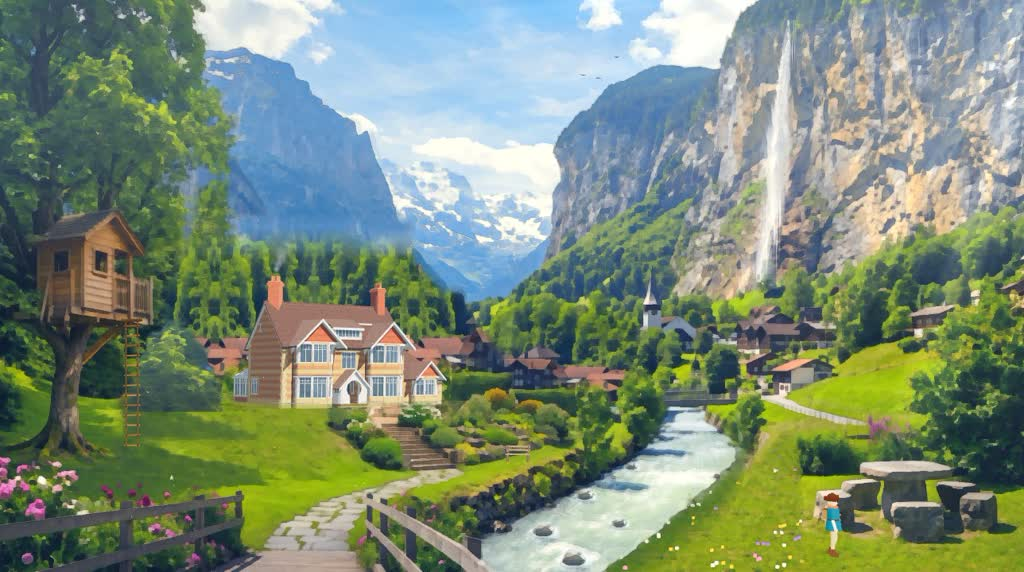
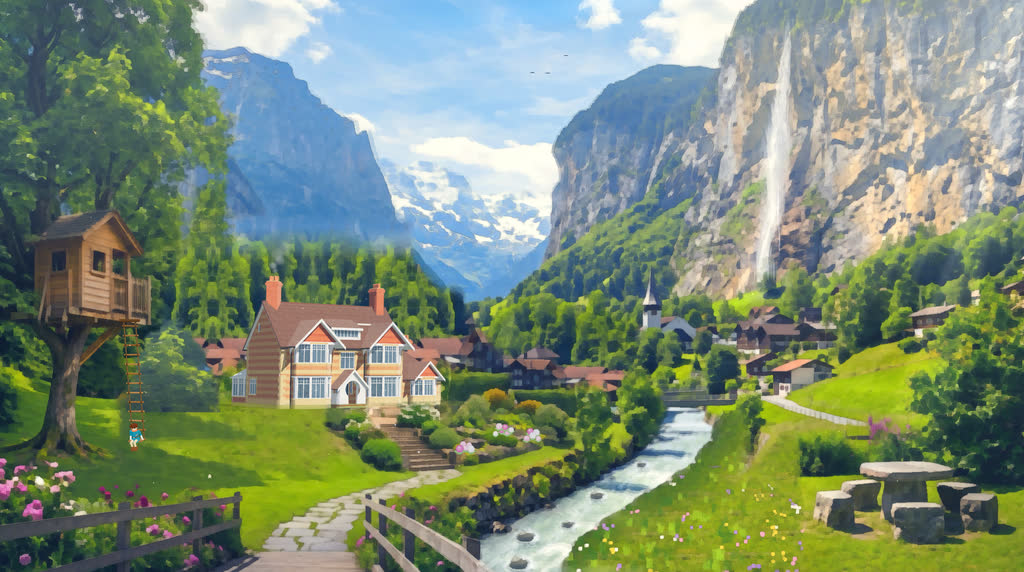
Clun splash: narrower creek, wider right-bank meadow with grass tufts, light patches, more wildflowers and waterline pebbles; refreshed poster

diff --git a/spatial-home/clun/js/plate.js b/spatial-home/clun/js/plate.js
@@ -23,14 +23,14 @@
     ladders: [],   /* 原图树屋的两架木梯：抹掉，换成一条绳梯 */
     rope: [332, 808, 1152],                     /* 绳梯：挂在平台右端前沿（x, 平台底 y），下面地面 y */
     walkOut: [[262, 1096], [330, 1060], [430, 1048], [600, 1035], [790, 1032], [880, 1060], [835, 1130], [870, 1200], [930, 1270], [985, 1340], [1045, 1420], [760, 1428], [520, 1390], [330, 1320], [255, 1210]],   /* 右边沿着小路栏杆的内侧（不站到栏杆外面） */   /* 屋外能走的范围：门前、左边草坪和石板路 */
-    walkBank: [[1885, 1115], [2120, 1150], [2420, 1215], [2576, 1290], [2576, 1432], [1605, 1432], [1636, 1400], [1692, 1350], [1738, 1290], [1808, 1230], [1868, 1170]],   /* 小溪对岸：整片草坡，左边一直到水边 */
+    walkBank: [[1840, 1115], [2120, 1150], [2420, 1215], [2576, 1290], [2576, 1432], [1470, 1432], [1478, 1400], [1508, 1350], [1592, 1290], [1688, 1230], [1782, 1170]],   /* 小溪对岸：整片草坡，左边一直到水边 */
     walkHill: [[0, 935], [58, 950], [90, 975], [92, 1085], [150, 1128], [300, 1128], [300, 1165], [120, 1165], [0, 1150]],   /* 大树左边的山坡（从树根前面绕过去，一路爬到坡顶） */
     walkYard: [[870, 1200], [1000, 1192], [1138, 1192], [1200, 1178], [1330, 1152], [1420, 1140], [1420, 1172], [1330, 1198], [1215, 1222], [1140, 1250], [1010, 1262], [930, 1270]],   /* 石阶脚下的小路和前院花园那条草带 */
     stairs: [[1000, 1192], [1138, 1192], [1100, 1126], [1040, 1066], [948, 1066], [985, 1104], [1000, 1140]],   /* 前院的石阶（底图里画着的） */
     walkPorch: [[856, 1050], [948, 1068], [1040, 1068], [1010, 1032], [880, 1030]],   /* 石阶顶上到房门前 */
     bench: [1300, 1160], hilltop: [40, 956],   /* 前院花园（原来放长椅的地方，长椅已去掉）、山坡顶上坐下看山谷的地方 */
-    hops: [[1010, 1405], [1215, 1428], [1365, 1338], [1555, 1318], [1745, 1315]],   /* 从小路尽头跳过栏杆，经溪里的石头到对岸 */   /* 踩着溪里的石头过溪（两头在两边草地上） */
-    waterSpots: [[1800, 1245, 1700, 1255], [1676, 1398, 1560, 1408]],
+    hops: [[1010, 1405], [1215, 1428], [1322, 1350], [1428, 1318], [1600, 1315]],   /* 从小路尽头跳过栏杆，经溪里的石头到对岸 */   /* 踩着溪里的石头过溪（两头在两边草地上） */
+    waterSpots: [[1672, 1245, 1560, 1255], [1500, 1398, 1385, 1408]],
     yardBeds: [[1172, 1136], [1262, 1092], [1340, 1106]],   /* 前院花园里的三小丛花（底图坐标，都在花园的灌木花坛里，不在路边 / 草带上） */
     gardens: [[430, 1272, 352, 1262], [1004, 1052, 1078, 1040], [1180, 1206, 1186, 1150], [1905, 1345, 1885, 1402]],   /* 能打理的花草：小人站的地方 → 花丛 */
     stool: [2060, 1325, 2108, 1296],   /* 石桌边：走到的地方 → 坐的那只石凳 */   /* 玩水：小人站的地方 → 水面的点 */
@@ -39,12 +39,12 @@
     /* 动画区域（底图像素） */
     fall: [[1973, 52], [1999, 52], [1986, 320], [1967, 540], [1948, 705], [1890, 705], [1922, 540], [1946, 320]],
     fallMist: [1918, 700, 95],
-    river: [[1665, 1022], [1855, 1022], [1862, 1110], [1832, 1170], [1768, 1230], [1698, 1290], [1628, 1350], [1560, 1400], [1505, 1438],
+    river: [[1665, 1022], [1815, 1022], [1775, 1110], [1725, 1170], [1630, 1230], [1535, 1290], [1450, 1350], [1420, 1400], [1408, 1438],
       [1198, 1438], [1218, 1368], [1280, 1318], [1380, 1268], [1488, 1218], [1578, 1168], [1628, 1108]],
     bridge: [1760, 1018],
     /* 小溪收窄：右岸往里推，原来的水面铺成向下的缓草坡（这一圈点 = 新岸线 + 原来右岸外的草地） */
-    bank: [[1855, 1030], [1862, 1110], [1832, 1170], [1768, 1230], [1698, 1290], [1628, 1350], [1560, 1400], [1505, 1438], [1760, 1438], [1800, 1330], [1860, 1230], [1885, 1120], [1880, 1030]],
-    rocks: [[1585, 1175, 15], [1468, 1248, 21], [1555, 1318, 18], [1365, 1338, 27], [1440, 1410, 31]],   /* 溪里的石头：中心 x, y, 半径（像素） */
+    bank: [[1815, 1030], [1775, 1110], [1725, 1170], [1630, 1230], [1535, 1290], [1450, 1350], [1420, 1400], [1408, 1438], [1760, 1438], [1800, 1330], [1860, 1230], [1885, 1120], [1880, 1030]],
+    rocks: [[1612, 1168, 13], [1500, 1246, 18], [1428, 1318, 17], [1322, 1350, 24], [1305, 1418, 27]],   /* 溪里的石头：中心 x, y, 半径（像素） */
     walk: [[760, 1330], [985, 1222]],   /* 小旅人来回走的石板路两端（近景） */
     table: [[1985, 1405], [2095, 1392]], /* 远景里小旅人的位置：石桌左前方的草地 */
     heroScale: 0.72,                     /* 小旅人整体缩小 */
@@ -192,7 +192,7 @@
     bg2.save(); bpath(bg2); bg2.clip();
     for (var by = 1000, brow = 0; by < H; brow++) {
       var bsc = 0.4 + 0.6 * Math.max(0, by - 1000) / 438, bw = 300 * bsc, bh = 70 * bsc;
-      for (var bx = 1480 - (brow % 2) * bw * 0.5, bcol = 0; bx < 1900; bx += bw, bcol++) {
+      for (var bx = 1340 - (brow % 2) * bw * 0.5, bcol = 0; bx < 1900; bx += bw, bcol++) {
         bg2.save(); if ((brow + bcol) % 2) { bg2.translate(bx + bw, by); bg2.scale(-1, 1); bg2.drawImage(img, 2150, 1365, 300, 70, 0, 0, bw, bh); } else bg2.drawImage(img, 2150, 1365, 300, 70, bx, by, bw, bh);
         bg2.restore();
       }
@@ -218,9 +218,21 @@
     g.save(); g.beginPath();
     [bankPoly, PL.fence].forEach(function (poly) { poly.forEach(function (q, i2) { if (i2) g.lineTo(q[0], q[1]); else g.moveTo(q[0], q[1]); }); g.closePath(); });
     g.clip();
+    /* 新铺的草坡：几块向阳的亮斑和背阴的暗斑，再长出一簇簇深浅不一的草，不是一整片平的 */
+    [[1610, 1150, 150, 1], [1570, 1300, 190, 1], [1705, 1405, 170, 0], [1500, 1420, 120, 1], [1765, 1240, 130, 0], [1730, 1085, 90, 1]].forEach(function (b) {
+      var rg = g.createRadialGradient(b[0], b[1], 0, b[0], b[1], b[2]);
+      rg.addColorStop(0, b[3] ? 'rgba(214,236,120,0.26)' : 'rgba(28,70,22,0.22)'); rg.addColorStop(1, 'rgba(0,0,0,0)');
+      g.save(); g.translate(0, b[1]); g.scale(1, 0.45); g.translate(0, -b[1]); g.fillStyle = rg; g.beginPath(); g.arc(b[0], b[1], b[2], 0, 6.283); g.fill(); g.restore();
+    });
+    g.lineCap = 'round';
+    for (var gi = 0; gi < 150; gi++) {
+      var gy2 = 1050 + Math.pow(rnd(), 0.75) * 388, gx2 = 1420 + rnd() * 460, gs = 0.8 + 2.2 * (gy2 - 1050) / 388;
+      g.strokeStyle = rnd() < 0.5 ? 'rgba(46,96,26,0.55)' : 'rgba(150,196,70,0.6)'; g.lineWidth = 0.9 * gs;
+      for (var gb = 0; gb < 5; gb++) { var lean = (gb - 2) * 1.8 * gs + (rnd() - 0.5) * 2 * gs; g.beginPath(); g.moveTo(gx2 + (gb - 2) * 1.2 * gs, gy2); g.quadraticCurveTo(gx2 + lean * 0.5, gy2 - 5 * gs, gx2 + lean, gy2 - (6 + rnd() * 5) * gs); g.stroke(); }
+    }
     var FL = ['#fbfaf2', '#f6d84a', '#f2a6c2', '#b78ad8', '#fbfaf2', '#f6d84a'];
-    for (var fi = 0; fi < 60; fi++) {
-      var fy = 1060 + Math.pow(rnd(), 0.8) * 378, fx = 1560 + rnd() * 480, fs = 1.1 + 2.6 * (fy - 1060) / 378, fc2 = FL[Math.floor(rnd() * FL.length)], fn = 1 + Math.floor(rnd() * 3);
+    for (var fi = 0; fi < 90; fi++) {
+      var fy = 1060 + Math.pow(rnd(), 0.8) * 378, fx = 1430 + rnd() * 610, fs = 1.1 + 2.6 * (fy - 1060) / 378, fc2 = FL[Math.floor(rnd() * FL.length)], fn = 1 + Math.floor(rnd() * 3);
       for (var fk = 0; fk < fn; fk++) {
         var ax = fx + (rnd() - 0.5) * 14 * fs, ay = fy + (rnd() - 0.5) * 6 * fs;
         g.strokeStyle = 'rgba(70,110,30,0.8)'; g.lineWidth = 0.8 * fs; g.beginPath(); g.moveTo(ax, ay); g.lineTo(ax + (rnd() - 0.5) * 2, ay + 5 * fs); g.stroke();
@@ -229,6 +241,13 @@
       }
     }
     g.restore();
+    /* 水边的卵石：沿新岸线零零星星几颗，一半在草里一半在水里 */
+    for (var pi = 3; pi < edge.length - 1; pi += 5 + Math.floor(rnd() * 6)) {
+      var pe = edge[pi], ps = 0.55 + 0.9 * (pe[1] - 1030) / 408, pr = (4 + rnd() * 5) * ps, pbx = pe[0] - 3 + rnd() * 8 * ps, pby = pe[1] + 1;
+      g.fillStyle = 'rgba(20,40,30,0.35)'; g.beginPath(); g.ellipse(pbx + pr * 0.2, pby + pr * 0.45, pr * 1.1, pr * 0.4, 0, 0, 6.283); g.fill();
+      g.fillStyle = ['#9a9a90', '#b4b0a2', '#84887f'][pi % 3]; g.beginPath(); g.ellipse(pbx, pby, pr, pr * 0.68, 0, 0, 6.283); g.fill();
+      g.fillStyle = 'rgba(255,255,255,0.35)'; g.beginPath(); g.ellipse(pbx - pr * 0.25, pby - pr * 0.25, pr * 0.45, pr * 0.25, 0, 0, 6.283); g.fill();
+    }
     /* 溪里的石头：先画水撞上来的白浪（在石头后面），再画露出水面的圆顶石头，最后是前面一圈白沫 */
     PL.rocks.forEach(function (r, ri) {
       var x = r[0], y = r[1], R = r[2];
@@ -684,7 +703,7 @@
     document.head.appendChild(css);
     var doorEl = ui.querySelector('.ce-door'), skipEl = ui.querySelector('.ce-skip'), goEl = ui.querySelector('.ce-go'), exEl = ui.querySelector('.ce-explore'), outEl = ui.querySelector('.ce-out'), stickEl = ui.querySelector('.ce-stick'), viewEl = ui.querySelector('.ce-view'), actsEl = ui.querySelector('.ce-acts'), sitEl = ui.querySelector('.ce-sit'), readEl = ui.querySelector('.ce-read'), waveEl = ui.querySelector('.ce-wave'), door2El = ui.querySelector('.ce-door2'), menuEl = ui.querySelector('.ce-menu'), featsEl = ui.querySelector('.ce-feats'), barEl = ui.querySelector('.ce-bar'), ctxEl = ui.querySelector('.ce-ctx'), knobEl = ui.querySelector('.ce-knob'), helpEl = ui.querySelector('.ce-help');
     var scopeEl = ui.querySelector('.ce-scope'), scopeTag = ui.querySelector('.ce-scope-tag'), mapEl = ui.querySelector('.ce-map'), mapImg = mapEl.querySelector('img'), mapPic = mapEl.querySelector('.ce-map-pic');
-    var PINS = [['树屋 · 你在这里', 190, 640, 'here'], ['家', 868, 905, 'door'], ['前院花园', 1262, 1128, 'garden'], ['山坡', 44, 930, 'hill'], ['大树下', 345, 1175, 'tree'], ['小溪', 1640, 1290, 'creek'], ['石桌', 2235, 1235, 'table'], ['教堂', 1636, 705, ''], ['瀑布', 1965, 300, ''], ['雪山', 1150, 400, ''], ['村庄', 1905, 835, '']];
+    var PINS = [['树屋 · 你在这里', 190, 640, 'here'], ['家', 868, 905, 'door'], ['前院花园', 1262, 1128, 'garden'], ['山坡', 44, 930, 'hill'], ['大树下', 345, 1175, 'tree'], ['小溪', 1440, 1290, 'creek'], ['石桌', 2235, 1235, 'table'], ['教堂', 1636, 705, ''], ['瀑布', 1965, 300, ''], ['雪山', 1150, 400, ''], ['村庄', 1905, 835, '']];
     PINS.forEach(function (q) {
       var go = q[3] && q[3] !== 'here', el = document.createElement(go ? 'button' : 'span'); if (go) { el.type = 'button'; el.setAttribute('data-go', q[3]); }
       el.className = 'ce-pin' + (q[3] === 'here' ? ' here' : ''); el.textContent = q[0] + (go ? ' ➜' : ''); el.style.left = (q[1] / PL.W * 100) + '%'; el.style.top = (q[2] / PL.H * 100) + '%'; mapPic.appendChild(el);

diff --git a/spatial-home/clun-2/index.html b/spatial-home/clun-2/index.html
@@ -60,7 +60,7 @@
   if (q.get('inside') === '1' || q.get('tree') === '1') return;
   var W = 2576, H = 1438, A = W / H, HOUSE = [860, 868], R = document.documentElement;
   var p = document.createElement('div'); p.id = 'plate-poster'; p.setAttribute('aria-hidden', 'true');
-  p.style.cssText = 'position:fixed;inset:0;z-index:1;pointer-events:none;background:#9cc3e6 url(art/plate-poster.jpg) no-repeat;transition:opacity .45s ease';
+  p.style.cssText = 'position:fixed;inset:0;z-index:1;pointer-events:none;background:#9cc3e6 url(art/plate-poster.jpg?v=2) no-repeat;transition:opacity .45s ease';
   function kind(w, h) {
     var f = q.get('duo'); if (f === 'outer' || f === 'inner') return f;
     if (R.classList.contains('duo-inner')) return 'inner'; if (R.classList.contains('duo-outer')) return 'outer';
@@ -114,7 +114,7 @@
 <script src="js/painterly.js?v=cel6"></script>
 <script src="js/hero.js?v=cel6"></script>
 <script src="js/treehouse.js?v=1"></script>
-<script src="js/plate.js?v=cel16"></script>
+<script src="js/plate.js?v=cel18"></script>
 <script src="js/model.js?v=cel5"></script>
 <script src="../js/home-store.js?v=4"></script>
 <script src="../js/home-defaults.js?v=3"></script>

diff --git a/spatial-home/clun/index.html b/spatial-home/clun/index.html
@@ -57,7 +57,7 @@
   if (q.get('inside') === '1' || q.get('tree') === '1') return;
   var W = 2576, H = 1438, A = W / H, HOUSE = [860, 868], R = document.documentElement;
   var p = document.createElement('div'); p.id = 'plate-poster'; p.setAttribute('aria-hidden', 'true');
-  p.style.cssText = 'position:fixed;inset:0;z-index:1;pointer-events:none;background:#9cc3e6 url(art/plate-poster.jpg) no-repeat;transition:opacity .45s ease';
+  p.style.cssText = 'position:fixed;inset:0;z-index:1;pointer-events:none;background:#9cc3e6 url(art/plate-poster.jpg?v=2) no-repeat;transition:opacity .45s ease';
   function kind(w, h) {
     var f = q.get('duo'); if (f === 'outer' || f === 'inner') return f;
     if (R.classList.contains('duo-inner')) return 'inner'; if (R.classList.contains('duo-outer')) return 'outer';
@@ -109,7 +109,7 @@
 <script src="js/painterly.js?v=cel6"></script>
 <script src="js/hero.js?v=cel6"></script>
 <script src="js/treehouse.js?v=1"></script>
-<script src="js/plate.js?v=cel16"></script>
+<script src="js/plate.js?v=cel18"></script>
 <script src="js/model.js?v=cel5"></script>
 <script src="js/app.js?v=cel5"></script>
 </body>
